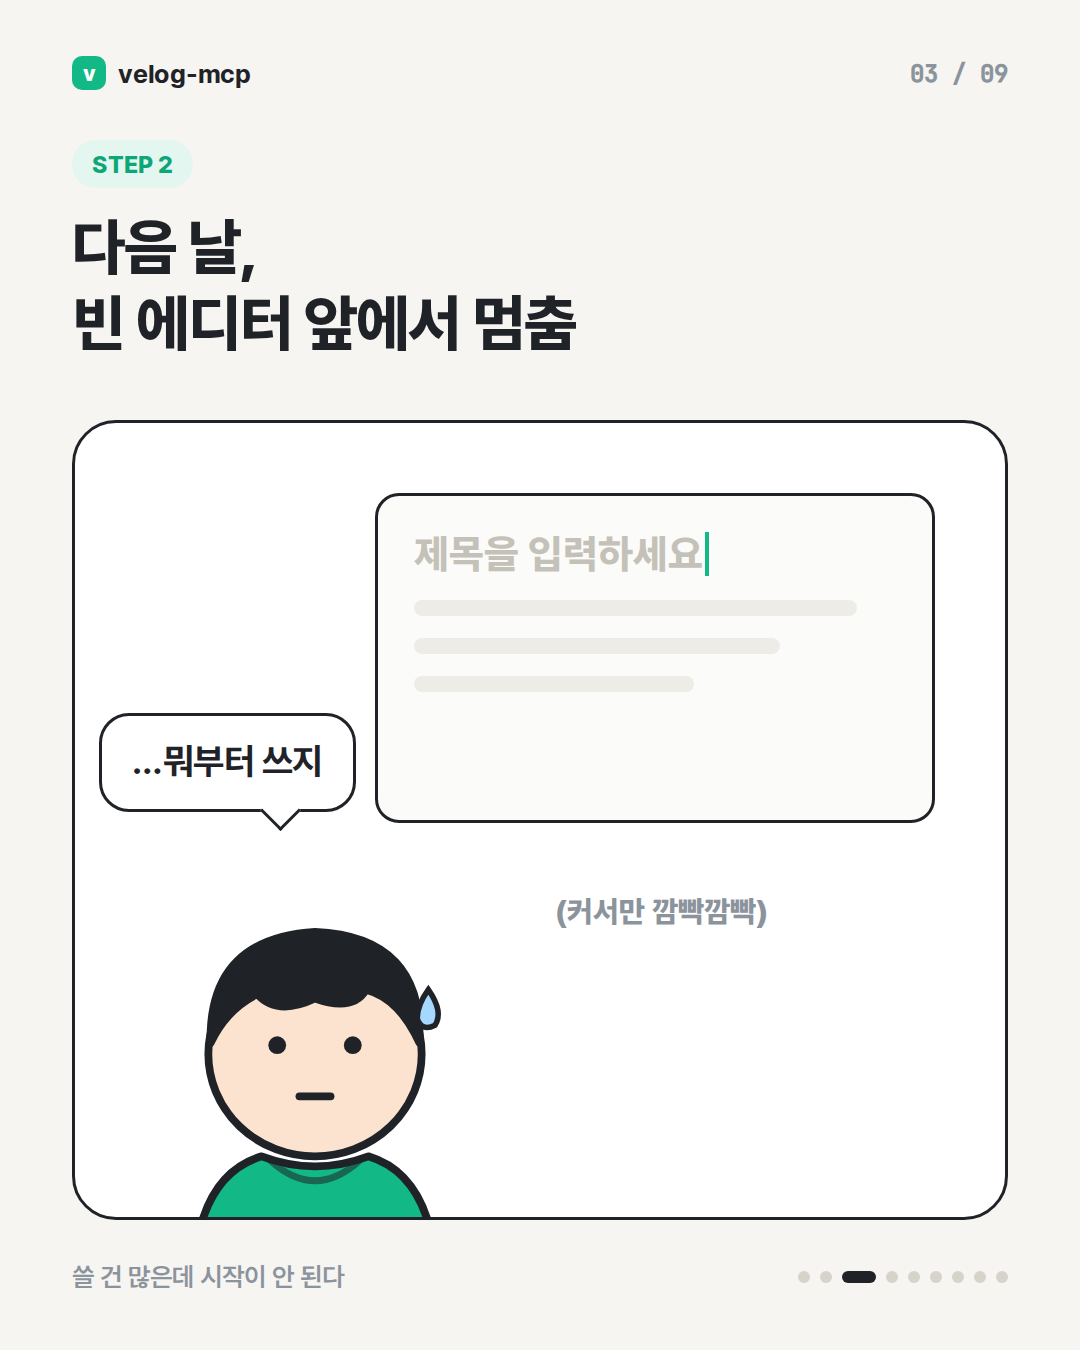
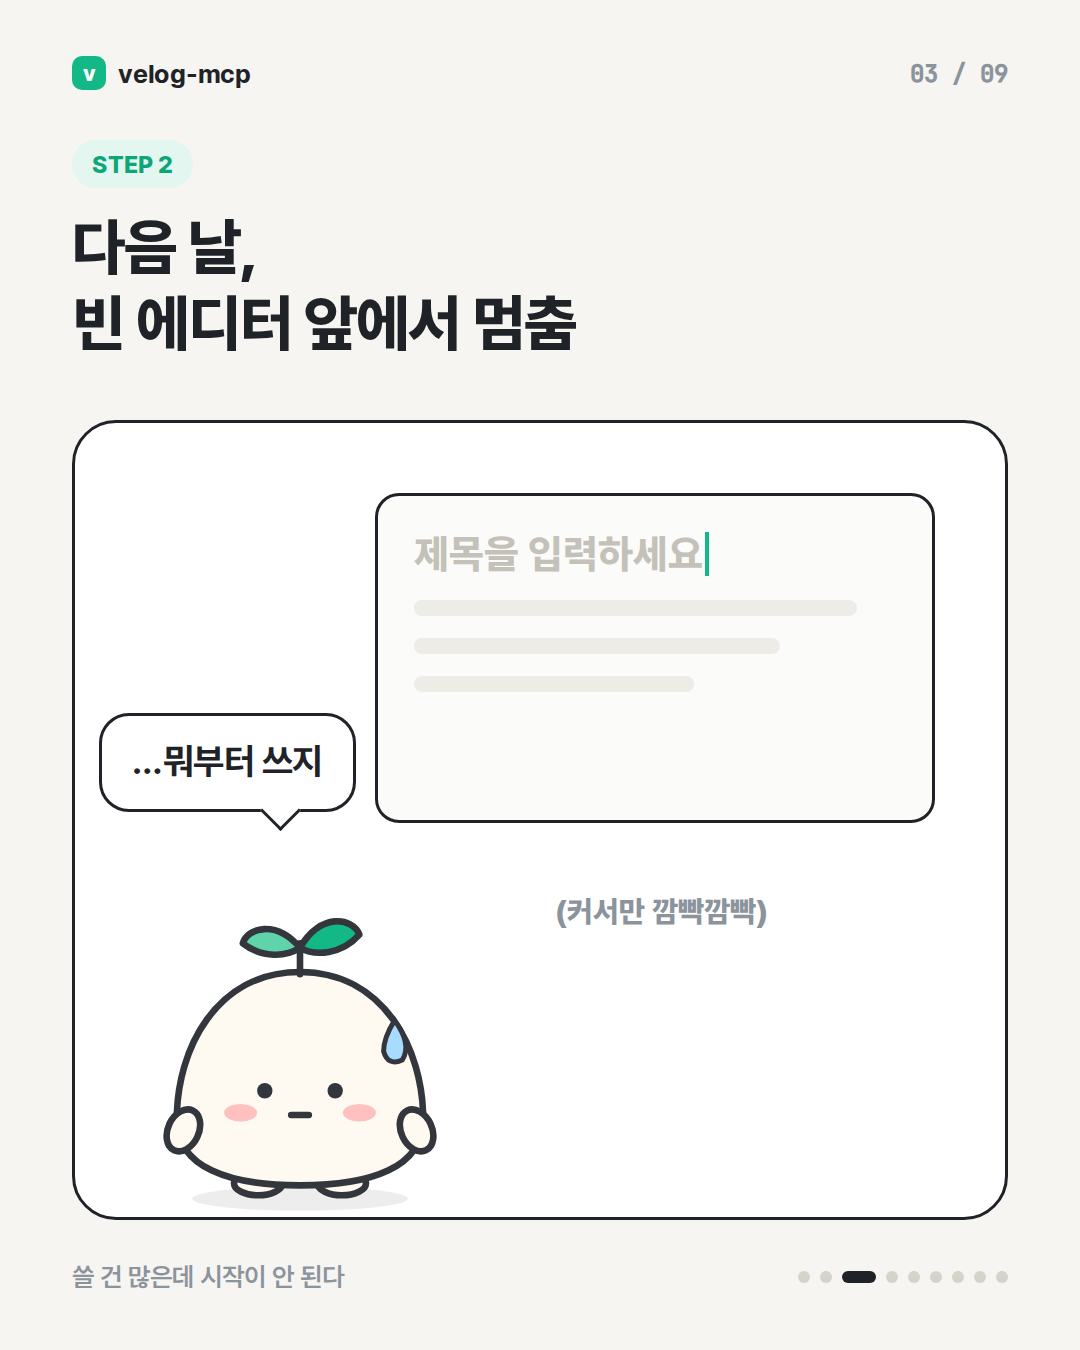
docs: 컷툰 캐릭터를 새싹 찹쌀떡·고양이 선배 마스코트로 교체
Claude-Session: https://claude.ai/code/session_01X3fBmSzLXyZafpiytT9wRn

Changed region(s): [[0.1528, 0.6844, 0.4278, 0.9022]]

diff --git a/docs/promo/cuttoon/toon.html b/docs/promo/cuttoon/toon.html
@@ -84,47 +84,67 @@ svg.ch{position:absolute}
 <body>
 <div id="root"></div>
 <script>
-const INK="#1f2328",SKIN="#fbe3cf",G="#12b886";
-// ── character ─────────────────────────────────────────
-// 360×400 원점 기준. 머리 중심 (180,175)
-function face(e){
+// ── character: 새싹 찹쌀떡 & 고양이 선배 ───────────────
+// viewBox 300×300. 몸 중심 x=150, 바닥 y≈262
+const INK="#33373d",G="#12b886",G2="#5fd3aa";
+function blob(o){
+  const cat=o.kind==="cat", melt=!!o.melt;
+  const fill=cat?"#e7e4df":"#fffaf1";
+  const top=melt?132:70, ey=melt?212:178;           // 녹으면 납작해지고 눈도 내려온다
+  const body=melt
+    ? `M150 ${top} C 232 ${top} 280 188 280 228 C 280 256 228 266 150 266 C 72 266 20 256 20 228 C 20 188 68 ${top} 150 ${top} Z`
+    : `M150 ${top} C 226 ${top} 262 140 262 204 C 262 248 214 264 150 264 C 86 264 38 248 38 204 C 38 140 74 ${top} 150 ${top} Z`;
+  const S=`stroke="${INK}" stroke-width="6" stroke-linejoin="round" stroke-linecap="round"`;
+  let g=`<ellipse cx="150" cy="276" rx="${melt?128:98}" ry="11" fill="#000" opacity=".07"/>`;
+  if(!melt) g+=`<ellipse cx="112" cy="262" rx="22" ry="11" fill="${fill}" ${S}/><ellipse cx="188" cy="262" rx="22" ry="11" fill="${fill}" ${S}/>`;
+  if(cat) g+=`<path d="M78 112 L70 52 L124 82 Z" fill="${fill}" ${S}/><path d="M222 112 L230 52 L176 82 Z" fill="${fill}" ${S}/><path d="M82 96 L79 70 L104 84 Z" fill="#f6b8b8"/><path d="M218 96 L221 70 L196 84 Z" fill="#f6b8b8"/>`;
+  g+=`<path d="${body}" fill="${fill}" ${S}/>`;
+  if(!cat){ // 새싹
+    const sy=top+2;
+    g+=`<path d="M150 ${sy} L150 ${sy-28}" ${S} fill="none"/>
+        <path d="M150 ${sy-24} C 128 ${sy-50} 102 ${sy-42} 98 ${sy-28} C 116 ${sy-14} 138 ${sy-16} 150 ${sy-24} Z" fill="${G2}" ${S}/>
+        <path d="M150 ${sy-24} C 168 ${sy-56} 198 ${sy-52} 204 ${sy-36} C 188 ${sy-18} 164 ${sy-16} 150 ${sy-24} Z" fill="${G}" ${S}/>`;
+  } else { // 고양이 수염 + 줄무늬
+    g+=`<path d="M138 ${top+8} L138 ${top+30} M150 ${top+4} L150 ${top+32} M162 ${top+8} L162 ${top+30}" stroke="#c9c4bc" stroke-width="6" stroke-linecap="round"/>
+        <path d="M52 ${ey+22} L82 ${ey+18} M54 ${ey+36} L82 ${ey+30} M248 ${ey+22} L218 ${ey+18} M246 ${ey+36} L218 ${ey+30}" stroke="${INK}" stroke-width="4" stroke-linecap="round"/>`;
+  }
+  // arms
+  if(!o.laptop && !melt){
+    const up=o.arms==="up";
+    g+= up ? `<ellipse cx="34" cy="150" rx="15" ry="22" transform="rotate(-30 34 150)" fill="${fill}" ${S}/><ellipse cx="266" cy="150" rx="15" ry="22" transform="rotate(30 266 150)" fill="${fill}" ${S}/>`
+           : `<ellipse cx="44" cy="214" rx="14" ry="20" transform="rotate(25 44 214)" fill="${fill}" ${S}/><ellipse cx="256" cy="214" rx="14" ry="20" transform="rotate(-25 256 214)" fill="${fill}" ${S}/>`;
+  }
+  // face
+  const L=118,R=182, e=o.eye||"dot";
   const eye=(x)=>({
-    dot:`<circle cx="${x}" cy="182" r="8" fill="${INK}"/>`,
-    happy:`<path d="M${x-13} 188 Q${x} 170 ${x+13} 188" fill="none" stroke="${INK}" stroke-width="7" stroke-linecap="round"/>`,
-    tired:`<path d="M${x-14} 184 L${x+14} 184" stroke="${INK}" stroke-width="7" stroke-linecap="round"/><path d="M${x-12} 198 Q${x} 205 ${x+12} 198" fill="none" stroke="#c9a68c" stroke-width="5" stroke-linecap="round"/>`,
-    shock:`<circle cx="${x}" cy="180" r="16" fill="#fff" stroke="${INK}" stroke-width="6"/><circle cx="${x}" cy="180" r="6" fill="${INK}"/>`,
-    smug:`<path d="M${x-13} 180 Q${x} 192 ${x+13} 180" fill="none" stroke="${INK}" stroke-width="7" stroke-linecap="round"/>`,
-    up:`<circle cx="${x+4}" cy="174" r="8" fill="${INK}"/>`,
-    spark:`<circle cx="${x}" cy="180" r="11" fill="${INK}"/><circle cx="${x+4}" cy="176" r="4" fill="#fff"/>`,
-  })[e.eye||"dot"];
+    dot:`<circle cx="${x}" cy="${ey}" r="13" fill="${INK}"/><circle cx="${x-4}" cy="${ey-5}" r="4.5" fill="#fff"/><circle cx="${x+4}" cy="${ey+4}" r="2" fill="#fff"/>`,
+    spark:`<circle cx="${x}" cy="${ey}" r="17" fill="${INK}"/><path d="M${x-5} ${ey-12} l2.5 6 6 2.5 -6 2.5 -2.5 6 -2.5 -6 -6 -2.5 6 -2.5z" fill="#fff"/><circle cx="${x+6}" cy="${ey+6}" r="3" fill="#fff"/>`,
+    happy:`<path d="M${x-12} ${ey+4} Q${x} ${ey-12} ${x+12} ${ey+4}" fill="none" ${S}/>`,
+    small:`<circle cx="${x}" cy="${ey}" r="7" fill="${INK}"/>`,
+    line:`<path d="M${x-12} ${ey} L${x+12} ${ey}" ${S}/>`,
+    shock:`<circle cx="${x}" cy="${ey-2}" r="17" fill="#fff" ${S}/><circle cx="${x}" cy="${ey-2}" r="5" fill="${INK}"/>`,
+    smug:`<path d="M${x-13} ${ey-2} L${x+13} ${ey-2}" ${S}/><path d="M${x-11} ${ey-2} Q${x} ${ey+11} ${x+11} ${ey-2}" fill="${INK}"/>`,
+    up:`<circle cx="${x+3}" cy="${ey-6}" r="12" fill="${INK}"/><circle cx="${x}" cy="${ey-11}" r="4" fill="#fff"/>`,
+  })[e];
+  const my=ey+20;
   const mouth={
-    smile:`<path d="M162 222 Q180 238 198 222" fill="none" stroke="${INK}" stroke-width="7" stroke-linecap="round"/>`,
-    open:`<path d="M158 218 Q180 252 202 218 Z" fill="${INK}" stroke="${INK}" stroke-width="5" stroke-linejoin="round"/><path d="M168 234 Q180 244 192 234" fill="#f08c8c"/>`,
-    flat:`<path d="M166 228 L194 228" stroke="${INK}" stroke-width="7" stroke-linecap="round"/>`,
-    wave:`<path d="M160 230 q7 -8 14 0 t14 0 t14 0" fill="none" stroke="${INK}" stroke-width="6" stroke-linecap="round"/>`,
-    o:`<ellipse cx="180" cy="232" rx="11" ry="14" fill="${INK}"/>`,
-    smirk:`<path d="M164 228 Q186 236 202 218" fill="none" stroke="${INK}" stroke-width="7" stroke-linecap="round"/>`,
-    small:`<path d="M172 228 Q180 233 188 228" fill="none" stroke="${INK}" stroke-width="6" stroke-linecap="round"/>`,
-  }[e.mouth||"smile"];
-  const blush=e.blush===false?"":`<ellipse cx="122" cy="214" rx="17" ry="10" fill="#f6a6a6" opacity=".55"/><ellipse cx="238" cy="214" rx="17" ry="10" fill="#f6a6a6" opacity=".55"/>`;
-  return eye(146)+eye(214)+blush+mouth;
-}
-function person(o){
-  const top=o.top||G, hairC=o.hairC||INK;
-  const hair=o.hair==="part"
-    ? `<path d="M86 178 Q80 82 182 78 Q284 80 276 182 Q268 128 214 116 Q200 140 120 134 Q96 150 86 178 Z" fill="${hairC}" stroke="${INK}" stroke-width="7" stroke-linejoin="round"/>`
-    : `<path d="M86 180 Q84 86 180 80 Q278 84 274 180 Q256 140 226 132 Q214 152 180 140 Q146 156 128 136 Q100 150 86 180 Z" fill="${hairC}" stroke="${INK}" stroke-width="7" stroke-linejoin="round"/>`;
-  const glasses=o.glasses?`<g fill="none" stroke="${INK}" stroke-width="6"><rect x="118" y="160" width="56" height="44" rx="16"/><rect x="186" y="160" width="56" height="44" rx="16"/><path d="M174 178 L186 178"/></g>`:"";
-  const body=`<path d="M70 400 Q72 300 132 282 Q180 300 228 282 Q288 300 290 400 Z" fill="${top}" stroke="${INK}" stroke-width="7" stroke-linejoin="round"/>
-    <path d="M140 286 Q180 322 220 286" fill="none" stroke="${INK}" stroke-width="6" stroke-linecap="round" opacity=".55"/>`;
-  const head=`<ellipse cx="180" cy="190" rx="96" ry="92" fill="${SKIN}" stroke="${INK}" stroke-width="7"/>`;
-  const laptop=o.laptop?`<path d="M74 404 L98 300 Q100 292 110 292 L250 292 Q260 292 262 300 L286 404 Z" fill="#eef0f2" stroke="${INK}" stroke-width="7" stroke-linejoin="round"/><circle cx="180" cy="348" r="16" fill="${G}"/>`:"";
-  const phone=o.phone?`<g transform="rotate(-8 250 330)"><rect x="214" y="268" width="76" height="128" rx="16" fill="${INK}"/><rect x="222" y="280" width="60" height="98" rx="8" fill="#2f363d"/><circle cx="252" cy="330" r="12" fill="${G}"/></g><ellipse cx="236" cy="372" rx="26" ry="20" fill="${SKIN}" stroke="${INK}" stroke-width="7"/>`:"";
-  const point=o.point?`<path d="M268 330 Q320 300 330 240" fill="none" stroke="${top}" stroke-width="36" stroke-linecap="round"/><path d="M268 330 Q320 300 330 240" fill="none" stroke="${INK}" stroke-width="7" stroke-linecap="round" opacity="0"/><circle cx="332" cy="228" r="22" fill="${SKIN}" stroke="${INK}" stroke-width="7"/>`:"";
-  const sweat=o.sweat?`<path d="M282 132 Q296 152 288 164 Q276 170 272 158 Q272 146 282 132 Z" fill="#a5d8ff" stroke="${INK}" stroke-width="5"/>`:"";
-  const flip=o.flip?`transform="translate(360 0) scale(-1 1)"`:"";
-  return `<svg class="ch" viewBox="0 0 360 410" style="left:${o.x}px;top:${o.y}px;width:${o.w||360}px" ${""}>
-    <g ${flip}>${body}${point}${head}${hair}${face(o)}${glasses}${sweat}${laptop}${phone}</g></svg>`;
+    smile:`<path d="M141 ${my} Q150 ${my+9} 159 ${my}" fill="none" ${S}/>`,
+    cat:`<path d="M138 ${my} Q144 ${my+8} 150 ${my} Q156 ${my+8} 162 ${my}" fill="none" ${S}/>`,
+    open:`<path d="M138 ${my-2} Q150 ${my+22} 162 ${my-2} Z" fill="${INK}" ${S}/><path d="M144 ${my+9} Q150 ${my+14} 156 ${my+9}" fill="#ff8f8f"/>`,
+    flat:`<path d="M142 ${my+2} L158 ${my+2}" ${S}/>`,
+    wave:`<path d="M136 ${my+2} q5 -6 9.5 0 t9.5 0 t9.5 0" fill="none" ${S}/>`,
+    o:`<ellipse cx="150" cy="${my+4}" rx="8" ry="10" fill="${INK}"/>`,
+    smirk:`<path d="M140 ${my+2} Q154 ${my+8} 164 ${my-6}" fill="none" ${S}/>`,
+  }[o.mouth||(cat?"cat":"smile")];
+  const blush=`<ellipse cx="${L-22}" cy="${ey+20}" rx="15" ry="8" fill="#ffadad" opacity=".75"/><ellipse cx="${R+22}" cy="${ey+20}" rx="15" ry="8" fill="#ffadad" opacity=".75"/>`;
+  g+=blush+eye(L)+eye(R)+mouth;
+  if(o.sweat) g+=`<path d="M236 ${top+44} Q252 ${top+66} 243 ${top+80} Q230 ${top+86} 226 ${top+72} Q226 ${top+60} 236 ${top+44} Z" fill="#a8dcff" stroke="${INK}" stroke-width="4.5"/>`;
+  if(o.laptop) g+=`<g transform="translate(0 26)"><path d="M70 288 L86 206 Q88 198 98 198 L202 198 Q212 198 214 206 L230 288 Z" fill="#eef0f2" ${S}/><circle cx="150" cy="244" r="13" fill="${G}"/>
+    <ellipse cx="80" cy="208" rx="16" ry="13" fill="${fill}" ${S}/><ellipse cx="220" cy="208" rx="16" ry="13" fill="${fill}" ${S}/></g>`;
+  if(o.mug) g+=`<g transform="translate(222 170)"><path d="M0 0 L46 0 L42 52 Q41 60 33 60 L13 60 Q5 60 4 52 Z" fill="#fff" ${S}/><path d="M45 14 Q64 14 62 30 Q60 42 43 42" fill="none" ${S}/><path d="M14 -12 q-6 -10 2 -20 M30 -12 q-6 -10 2 -20" fill="none" stroke="#c9c4bc" stroke-width="4.5" stroke-linecap="round"/></g>
+    <ellipse cx="226" cy="214" rx="15" ry="13" fill="${fill}" ${S}/>`;
+  const flip=o.flip?`transform="translate(300 0) scale(-1 1)"`:"";
+  return `<svg class="ch" viewBox="0 -20 300 320" style="left:${o.x}px;top:${o.y}px;width:${o.w||300}px;overflow:visible"><g ${flip}>${g}</g></svg>`;
 }
 const check=`<svg width="18" height="18" viewBox="0 0 24 24"><path d="M5 12.5l4.2 4.2L19 7" fill="none" stroke="#fff" stroke-width="3.4" stroke-linecap="round" stroke-linejoin="round"/></svg>`;
 const icon={
@@ -147,7 +167,7 @@ const pages=[];
 
 // 1 cover
 pages.push(frame(1,`
-  ${person({x:240,y:300,w:460,eye:"tired",mouth:"wave",laptop:true,sweat:true})}
+  ${blob({x:250,y:250,w:440,melt:true,eye:"line",mouth:"wave",sweat:true})}
   <div class="dr" style="left:56px;top:70px;transform:rotate(-6deg)">임시저장 <span>3주 전</span></div>
   <div class="dr" style="left:520px;top:120px;transform:rotate(5deg)">임시저장 <span>2주 전</span></div>
   <div class="dr" style="left:120px;top:250px;transform:rotate(3deg)">임시저장 <span>어제</span></div>
@@ -159,7 +179,7 @@ pages.push(frame(2,`
   <div style="position:absolute;right:70px;top:60px">${icon.moon}</div>
   <div class="sfx" style="left:70px;top:80px;font-family:M,monospace;color:var(--gray);font-size:30px">AM 02:13</div>
   <div class="bub tl" style="left:120px;top:150px">잡았다…!<br>이건 무조건 <span style="color:var(--g)">블로그각</span>이다</div>
-  ${person({x:260,y:300,w:430,eye:"spark",mouth:"open",laptop:true})}
+  ${blob({x:270,y:330,w:400,eye:"spark",mouth:"open",laptop:true})}
   <div class="sfx" style="left:190px;top:420px;transform:rotate(-14deg)">✦</div>
   <div class="sfx" style="left:760px;top:390px;transform:rotate(12deg)">✦</div>
 `,{step:"STEP 1",h:`새벽 2시,<br>드디어 버그를 잡았다`,foot:"모든 블로그는 여기서 시작된다"}));
@@ -168,7 +188,7 @@ pages.push(frame(2,`
 pages.push(frame(3,`
   <div class="ed"><div class="t">제목을 입력하세요<span class="cur"></span></div><div class="ln" style="width:92%"></div><div class="ln" style="width:76%"></div><div class="ln" style="width:58%"></div></div>
   <div class="bub tr2" style="left:24px;top:290px">…뭐부터 쓰지</div>
-  ${person({x:40,y:420,w:400,eye:"dot",mouth:"flat",sweat:true,blush:false})}
+  ${blob({x:60,y:450,w:330,eye:"small",mouth:"flat",sweat:true})}
   <div class="sfx" style="left:480px;top:470px;color:var(--gray);font-size:30px">(커서만 깜빡깜빡)</div>
 `,{step:"STEP 2",h:`다음 날,<br>빈 에디터 앞에서 멈춤`,foot:"쓸 건 많은데 시작이 안 된다"}));
 
@@ -176,14 +196,14 @@ pages.push(frame(3,`
 pages.push(frame(4,`
   ${[["Redis 커넥션 누수","3주 전",-5],["HTTP/2 정리","2주 전",4],["인덱스 실측기","10일 전",-3],["Next 캐시 삽질","5일 전",5],["오늘 고친 버그","방금",-2]].map((d,k)=>`<div class="dr" style="width:420px;left:${470+(k%2)*24}px;top:${50+k*104}px;transform:rotate(${d[2]}deg)">${d[0]} <span>${d[1]}</span></div>`).join("")}
   <div class="bub tl" style="left:50px;top:90px">다음 주엔<br>쓰겠지…</div>
-  ${person({x:30,y:340,w:430,eye:"tired",mouth:"small"})}
+  ${blob({x:20,y:330,w:420,melt:true,eye:"line",mouth:"wave"})}
 `,{step:"STEP 3",h:`그렇게 임시저장만<br><u>차곡차곡</u> 쌓인다`,foot:"익숙하다면, 다음 장으로"}));
 
 // 5 동료
 pages.push(frame(5,`
   <div class="bub tr2 g" style="right:60px;top:80px">아직도 손으로 써?<br>그냥 Claude한테 말해</div>
-  ${person({x:520,y:330,w:420,eye:"smug",mouth:"smirk",top:"#dcd3c6",hair:"part",glasses:true,flip:true})}
-  ${person({x:0,y:400,w:420,eye:"shock",mouth:"o",blush:false})}
+  ${blob({x:540,y:380,w:360,kind:"cat",eye:"smug",mouth:"cat",mug:true,flip:true})}
+  ${blob({x:40,y:430,w:330,eye:"shock",mouth:"o",arms:"up"})}
   <div class="sfx" style="left:60px;top:370px;font-size:56px;color:var(--ink)">!?</div>
 `,{step:"그때",h:`옆자리 동료가<br>한마디 던졌다`,foot:"velog-mcp = 벨로그용 MCP 서버"}));
 
@@ -201,7 +221,7 @@ pages.push(frame(6,`
 // 7 안심
 pages.push(frame(7,`
   <div class="bub tl" style="left:60px;top:50px">근데 알아서<br>공개되면 어떡해?</div>
-  ${person({x:560,y:20,w:330,eye:"up",mouth:"small",blush:false})}
+  ${blob({x:600,y:40,w:270,eye:"up",mouth:"wave"})}
   <div class="ll">
     <div class="li"><span class="ico">${icon.lock}</span><div>기본은 비공개 발행까지만<small>설치 직후엔 공개 글이 나갈 길이 없어요</small></div></div>
     <div class="li"><span class="ico">${icon.key}</span><div>공개는 내가 설정에서 켤 때만<small>그 스위치는 모델이 못 건드려요</small></div></div>
@@ -215,7 +235,7 @@ pages.push(frame(8,`
     ${[["Redis 커넥션 풀 누수 잡기",16323],["HTTP/2 제대로 알고 쓰기",12880],["PostgreSQL 인덱스 실측기",9410],["사이드 프로젝트 회고",7022],["Next.js 캐시 삽질 로그",5210]].map((r,k)=>`<div class="br"><span class="n">${r[0]}</span><div class="tr ${k?"o":""}"><div class="fl" style="width:${r[1]/163.23}%"></div></div><span class="v">${r[1].toLocaleString()}</span></div>`).join("")}
   </div>
   <div class="bub tr2" style="right:330px;top:440px">오… 이 글이<br>제일 많이 읽혔네</div>
-  ${person({x:600,y:420,w:340,eye:"spark",mouth:"smile"})}
+  ${blob({x:620,y:440,w:300,eye:"happy",mouth:"open",arms:"up"})}
 `,{step:"덤으로",h:`통계도, 구성도도<br>말로 끝`,foot:"구성도는 스스로 검사한 뒤에만 올려요"}));
 
 // 9 CTA

diff --git a/docs/promo/README.md b/docs/promo/README.md
@@ -57,7 +57,7 @@ ffmpeg -i velog-mcp-ad.mp4 -i narration.wav -map 0:v -map 1:a -c:v copy -c:a aac
 
 `cuttoon/01.png` … `09.png` — 1080×1350(4:5) 캐러셀 9장.
 블로그 미루기 3단계(새벽 버그 → 빈 에디터 → 쌓이는 임시저장) → 동료의 한마디 → 초안 · 안심(비공개 기본) · 통계 → 설치.
-캐릭터는 `toon.html` 안의 SVG 함수 `person()` 로 그린다 (표정 `eye`/`mouth`, 소품 `laptop`/`phone`).
+캐릭터는 `toon.html` 안의 SVG 함수 `blob()` — 새싹 찹쌀떡(주인공)과 `kind:"cat"` 고양이 선배. 표정 `eye`/`mouth`, 상태 `melt`(녹아내림)·`sweat`, 소품 `laptop`/`mug`.
 
 ```bash
 cd docs/promo && node cuttoon/toon.mjs   # 폰트는 위 '다시 뽑기'와 같은 위치(docs/promo)
